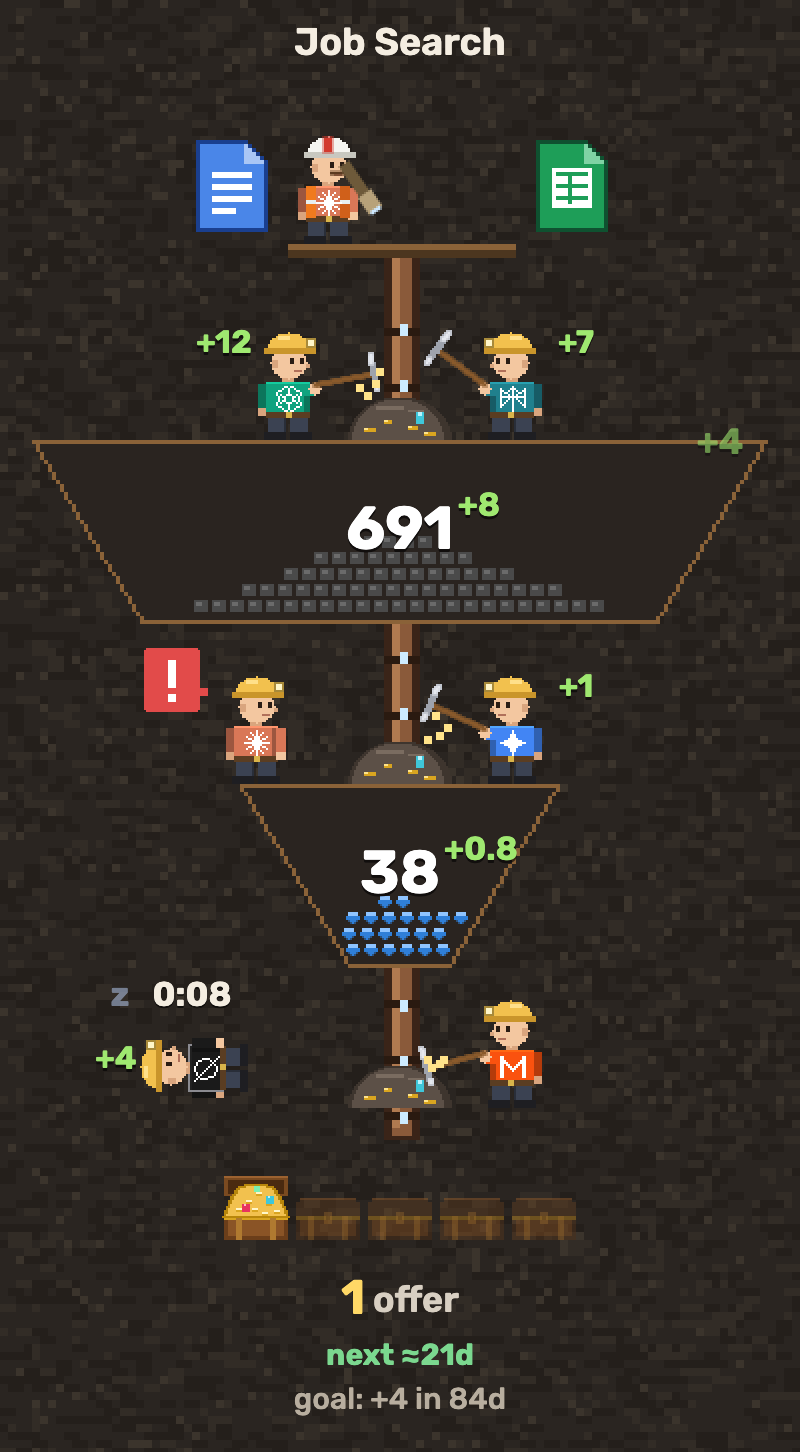
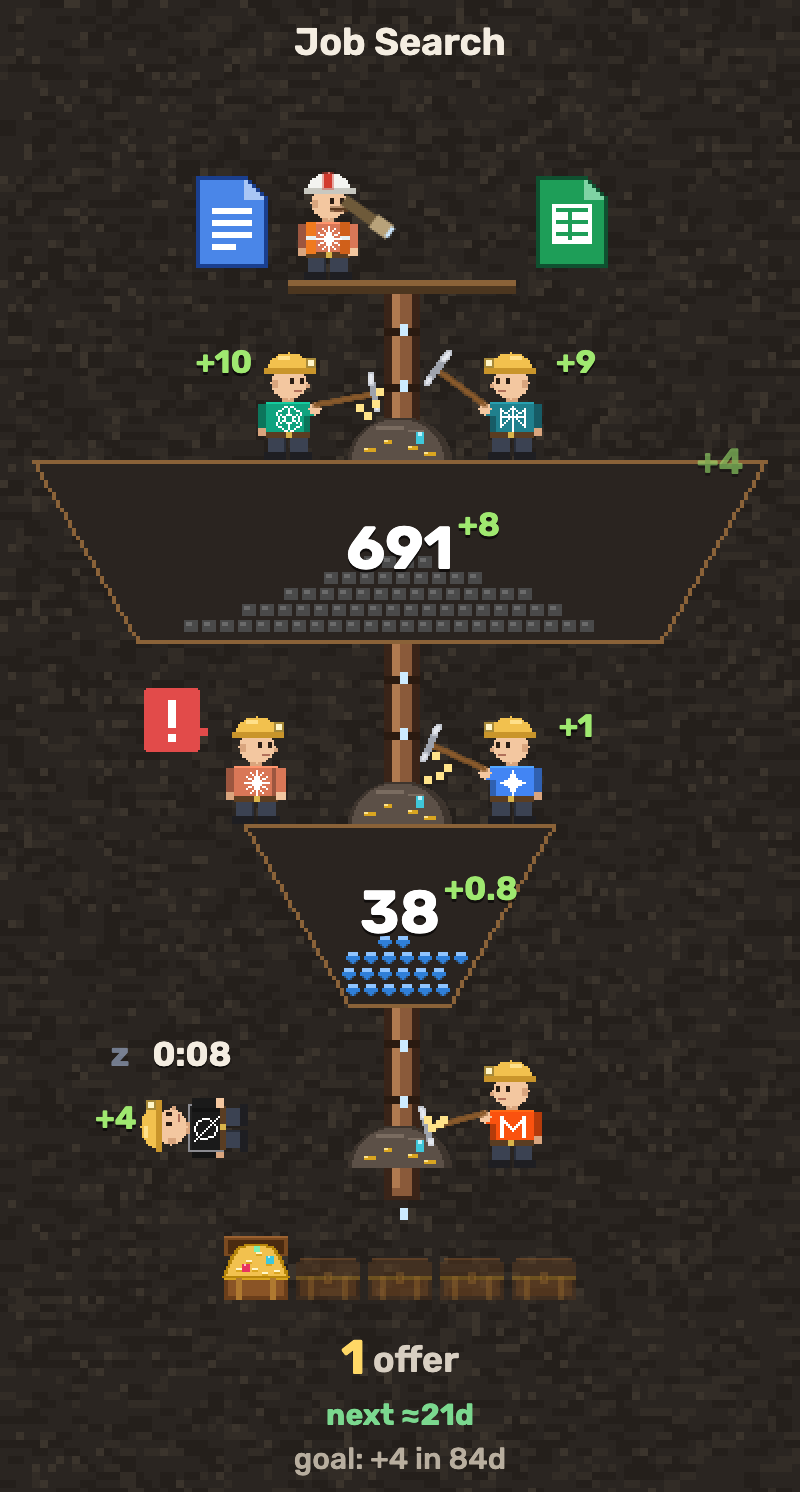
Every gap in a funnel is 45 high: from the supervisor's platform to the first tank and between tanks; landing labels and pictures follow

diff --git a/index.html b/index.html
@@ -23,7 +23,7 @@
   <link rel="preconnect" href="https://fonts.googleapis.com">
   <link rel="preconnect" href="https://fonts.gstatic.com" crossorigin>
   <link href="https://fonts.googleapis.com/css2?family=Tiny5&family=Rubik:wght@400;500;600;700&family=Noto+Sans+SC:wght@400;500;700&family=Noto+Sans+Thai:wght@400;500;700&family=Be+Vietnam+Pro:wght@400;500;600;700&family=Noto+Sans+JP:wght@400;500;700&family=Noto+Sans+KR:wght@400;500;700&display=swap" rel="stylesheet">
-  <link rel="stylesheet" href="site.css?v=ae864ee5">
+  <link rel="stylesheet" href="site.css?v=f143d60b">
 </head>
 <body>
   <div class="wrap">
@@ -48,14 +48,14 @@
            at its part's height (--y) with an arrow to it (--x), as fractions of the picture. -->
       <div class="guide">
         <img src="docs/img/funnel-plain.png" alt="One goal funnel of the demo" data-i18n-attr="alt:home.shotAlt" width="800" height="1368">
-        <div class="note up" style="--x:0.37;--y:0.096"><b data-i18n="guide.supervisor.h">Supervisor</b><span data-i18n="guide.supervisor">Your agent watching the whole funnel.</span></div>
-        <div class="note" style="--x:0.255;--y:0.14"><b data-i18n="guide.doc.h">Notes and list</b><span data-i18n="guide.doc">Notes on the left: everything the agents need to know about the funnel. The list on the right: where they keep track.</span></div>
-        <div class="note" style="--x:0.315;--y:0.259"><b data-i18n="guide.work.h">Agent at work</b><span data-i18n="guide.work">+N is what its current run added.</span></div>
-        <div class="note" style="--x:0.12;--y:0.366"><b data-i18n="guide.tank.h">Tank</b><span data-i18n="guide.tank">Items at this stage so far, and +N a day.</span></div>
-        <div class="note" style="--x:0.18;--y:0.476"><b data-i18n="guide.question.h">Question</b><span data-i18n="guide.question">An agent waits for your answer. Click it to reply.</span></div>
-        <div class="note" style="--x:0.095;--y:0.711"><b data-i18n="guide.asleep.h">Asleep</b><span data-i18n="guide.asleep">Resting until its next run; the timer counts down.</span></div>
-        <div class="note" style="--x:0.275;--y:0.824"><b data-i18n="guide.results.h">Results</b><span data-i18n="guide.results">One per result the goal needs; filled ones are done.</span></div>
-        <div class="note" style="--x:0.385;--y:0.934"><b data-i18n="guide.prediction.h">Prediction</b><span data-i18n="guide.prediction">When the next result is due at the current pace.</span></div>
+        <div class="note up" style="--x:0.37;--y:0.118"><b data-i18n="guide.supervisor.h">Supervisor</b><span data-i18n="guide.supervisor">Your agent watching the whole funnel.</span></div>
+        <div class="note" style="--x:0.255;--y:0.161"><b data-i18n="guide.doc.h">Notes and list</b><span data-i18n="guide.doc">Notes on the left: everything the agents need to know about the funnel. The list on the right: where they keep track.</span></div>
+        <div class="note" style="--x:0.315;--y:0.265"><b data-i18n="guide.work.h">Agent at work</b><span data-i18n="guide.work">+N is what its current run added.</span></div>
+        <div class="note" style="--x:0.117;--y:0.37"><b data-i18n="guide.tank.h">Tank</b><span data-i18n="guide.tank">Items at this stage so far, and +N a day.</span></div>
+        <div class="note" style="--x:0.18;--y:0.489"><b data-i18n="guide.question.h">Question</b><span data-i18n="guide.question">An agent waits for your answer. Click it to reply.</span></div>
+        <div class="note" style="--x:0.095;--y:0.732"><b data-i18n="guide.asleep.h">Asleep</b><span data-i18n="guide.asleep">Resting until its next run; the timer counts down.</span></div>
+        <div class="note" style="--x:0.275;--y:0.828"><b data-i18n="guide.results.h">Results</b><span data-i18n="guide.results">One per result the goal needs; filled ones are done.</span></div>
+        <div class="note" style="--x:0.385;--y:0.936"><b data-i18n="guide.prediction.h">Prediction</b><span data-i18n="guide.prediction">When the next result is due at the current pace.</span></div>
       </div>
     </section>
 
@@ -79,7 +79,7 @@
       <span><a href="https://github.com/oponfil/goalcraft/blob/main/docs/MCP.md" target="_blank" rel="noopener" data-i18n="footer.docs">Docs</a> · <a href="deck/" target="_blank" rel="noopener" data-i18n="footer.deck">Pitch deck</a> · <a href="privacy/" data-i18n="footer.privacy">Privacy</a> · <a href="terms/" data-i18n="footer.terms">Terms</a> · <a href="contact/" data-i18n="footer.contact">Contact</a> · <a class="gh" href="https://github.com/oponfil/goalcraft" target="_blank" rel="noopener" aria-label="GitHub" title="GitHub"><svg viewBox="0 0 16 16" width="16" height="16" aria-hidden="true"><path fill="currentColor" d="M8 0C3.58 0 0 3.58 0 8c0 3.54 2.29 6.53 5.47 7.59.4.07.55-.17.55-.38 0-.19-.01-.82-.01-1.49-2.01.37-2.53-.49-2.69-.94-.09-.23-.48-.94-.82-1.13-.28-.15-.68-.52-.01-.53.63-.01 1.08.58 1.23.82.72 1.21 1.87.87 2.33.66.07-.52.28-.87.51-1.07-1.78-.2-3.64-.89-3.64-3.95 0-.87.31-1.59.82-2.15-.08-.2-.36-1.02.08-2.12 0 0 .67-.21 2.2.82.64-.18 1.32-.27 2-.27.68 0 1.36.09 2 .27 1.53-1.04 2.2-.82 2.2-.82.44 1.1.16 1.92.08 2.12.51.56.82 1.27.82 2.15 0 3.07-1.87 3.75-3.65 3.95.29.25.54.73.54 1.48 0 1.07-.01 1.93-.01 2.2 0 .21.15.46.55.38A8.013 8.013 0 0016 8c0-4.42-3.58-8-8-8z"/></svg></a></span>
     </footer>
   </div>
-  <script type="module" src="src/nav.js?v=ae864ee5"></script>
-  <script type="module" src="src/guide-live.js?v=ae864ee5"></script>
+  <script type="module" src="src/nav.js?v=f143d60b"></script>
+  <script type="module" src="src/guide-live.js?v=f143d60b"></script>
 </body>
 </html>

diff --git a/pricing/index.html b/pricing/index.html
@@ -23,7 +23,7 @@
   <link rel="preconnect" href="https://fonts.googleapis.com">
   <link rel="preconnect" href="https://fonts.gstatic.com" crossorigin>
   <link href="https://fonts.googleapis.com/css2?family=Tiny5&family=Rubik:wght@400;500;600;700&family=Noto+Sans+SC:wght@400;500;700&family=Noto+Sans+Thai:wght@400;500;700&family=Be+Vietnam+Pro:wght@400;500;600;700&family=Noto+Sans+JP:wght@400;500;700&family=Noto+Sans+KR:wght@400;500;700&display=swap" rel="stylesheet">
-  <link rel="stylesheet" href="../site.css?v=ae864ee5">
+  <link rel="stylesheet" href="../site.css?v=f143d60b">
 </head>
 <body>
   <div class="wrap">
@@ -80,7 +80,7 @@
       <span><a href="https://github.com/oponfil/goalcraft/blob/main/docs/MCP.md" target="_blank" rel="noopener" data-i18n="footer.docs">Docs</a> · <a href="../deck/" target="_blank" rel="noopener" data-i18n="footer.deck">Pitch deck</a> · <a href="../privacy/" data-i18n="footer.privacy">Privacy</a> · <a href="../terms/" data-i18n="footer.terms">Terms</a> · <a href="../contact/" data-i18n="footer.contact">Contact</a> · <a class="gh" href="https://github.com/oponfil/goalcraft" target="_blank" rel="noopener" aria-label="GitHub" title="GitHub"><svg viewBox="0 0 16 16" width="16" height="16" aria-hidden="true"><path fill="currentColor" d="M8 0C3.58 0 0 3.58 0 8c0 3.54 2.29 6.53 5.47 7.59.4.07.55-.17.55-.38 0-.19-.01-.82-.01-1.49-2.01.37-2.53-.49-2.69-.94-.09-.23-.48-.94-.82-1.13-.28-.15-.68-.52-.01-.53.63-.01 1.08.58 1.23.82.72 1.21 1.87.87 2.33.66.07-.52.28-.87.51-1.07-1.78-.2-3.64-.89-3.64-3.95 0-.87.31-1.59.82-2.15-.08-.2-.36-1.02.08-2.12 0 0 .67-.21 2.2.82.64-.18 1.32-.27 2-.27.68 0 1.36.09 2 .27 1.53-1.04 2.2-.82 2.2-.82.44 1.1.16 1.92.08 2.12.51.56.82 1.27.82 2.15 0 3.07-1.87 3.75-3.65 3.95.29.25.54.73.54 1.48 0 1.07-.01 1.93-.01 2.2 0 .21.15.46.55.38A8.013 8.013 0 0016 8c0-4.42-3.58-8-8-8z"/></svg></a></span>
     </footer>
   </div>
-  <script type="module" src="../src/nav.js?v=ae864ee5"></script>
-  <script type="module" src="../src/pricing.js?v=ae864ee5"></script>
+  <script type="module" src="../src/nav.js?v=f143d60b"></script>
+  <script type="module" src="../src/pricing.js?v=f143d60b"></script>
 </body>
 </html>

diff --git a/contact/index.html b/contact/index.html
@@ -23,7 +23,7 @@
   <link rel="preconnect" href="https://fonts.googleapis.com">
   <link rel="preconnect" href="https://fonts.gstatic.com" crossorigin>
   <link href="https://fonts.googleapis.com/css2?family=Tiny5&family=Rubik:wght@400;500;600;700&family=Noto+Sans+SC:wght@400;500;700&family=Noto+Sans+Thai:wght@400;500;700&family=Be+Vietnam+Pro:wght@400;500;600;700&family=Noto+Sans+JP:wght@400;500;700&family=Noto+Sans+KR:wght@400;500;700&display=swap" rel="stylesheet">
-  <link rel="stylesheet" href="../site.css?v=ae864ee5">
+  <link rel="stylesheet" href="../site.css?v=f143d60b">
 </head>
 <body>
   <div class="wrap">
@@ -52,6 +52,6 @@
       <span><a href="https://github.com/oponfil/goalcraft/blob/main/docs/MCP.md" target="_blank" rel="noopener" data-i18n="footer.docs">Docs</a> · <a href="../deck/" target="_blank" rel="noopener" data-i18n="footer.deck">Pitch deck</a> · <a href="../privacy/" data-i18n="footer.privacy">Privacy</a> · <a href="../terms/" data-i18n="footer.terms">Terms</a> · <a href="../contact/" data-i18n="footer.contact">Contact</a> · <a class="gh" href="https://github.com/oponfil/goalcraft" target="_blank" rel="noopener" aria-label="GitHub" title="GitHub"><svg viewBox="0 0 16 16" width="16" height="16" aria-hidden="true"><path fill="currentColor" d="M8 0C3.58 0 0 3.58 0 8c0 3.54 2.29 6.53 5.47 7.59.4.07.55-.17.55-.38 0-.19-.01-.82-.01-1.49-2.01.37-2.53-.49-2.69-.94-.09-.23-.48-.94-.82-1.13-.28-.15-.68-.52-.01-.53.63-.01 1.08.58 1.23.82.72 1.21 1.87.87 2.33.66.07-.52.28-.87.51-1.07-1.78-.2-3.64-.89-3.64-3.95 0-.87.31-1.59.82-2.15-.08-.2-.36-1.02.08-2.12 0 0 .67-.21 2.2.82.64-.18 1.32-.27 2-.27.68 0 1.36.09 2 .27 1.53-1.04 2.2-.82 2.2-.82.44 1.1.16 1.92.08 2.12.51.56.82 1.27.82 2.15 0 3.07-1.87 3.75-3.65 3.95.29.25.54.73.54 1.48 0 1.07-.01 1.93-.01 2.2 0 .21.15.46.55.38A8.013 8.013 0 0016 8c0-4.42-3.58-8-8-8z"/></svg></a></span>
     </footer>
   </div>
-  <script type="module" src="../src/nav.js?v=ae864ee5"></script>
+  <script type="module" src="../src/nav.js?v=f143d60b"></script>
 </body>
 </html>

diff --git a/privacy/index.html b/privacy/index.html
@@ -23,7 +23,7 @@
   <link rel="preconnect" href="https://fonts.googleapis.com">
   <link rel="preconnect" href="https://fonts.gstatic.com" crossorigin>
   <link href="https://fonts.googleapis.com/css2?family=Tiny5&family=Rubik:wght@400;500;600;700&family=Noto+Sans+SC:wght@400;500;700&family=Noto+Sans+Thai:wght@400;500;700&family=Be+Vietnam+Pro:wght@400;500;600;700&family=Noto+Sans+JP:wght@400;500;700&family=Noto+Sans+KR:wght@400;500;700&display=swap" rel="stylesheet">
-  <link rel="stylesheet" href="../site.css?v=ae864ee5">
+  <link rel="stylesheet" href="../site.css?v=f143d60b">
 </head>
 <body>
   <div class="wrap">
@@ -61,6 +61,6 @@
       <span><a href="https://github.com/oponfil/goalcraft/blob/main/docs/MCP.md" target="_blank" rel="noopener" data-i18n="footer.docs">Docs</a> · <a href="../deck/" target="_blank" rel="noopener" data-i18n="footer.deck">Pitch deck</a> · <a href="../privacy/" data-i18n="footer.privacy">Privacy</a> · <a href="../terms/" data-i18n="footer.terms">Terms</a> · <a href="../contact/" data-i18n="footer.contact">Contact</a> · <a class="gh" href="https://github.com/oponfil/goalcraft" target="_blank" rel="noopener" aria-label="GitHub" title="GitHub"><svg viewBox="0 0 16 16" width="16" height="16" aria-hidden="true"><path fill="currentColor" d="M8 0C3.58 0 0 3.58 0 8c0 3.54 2.29 6.53 5.47 7.59.4.07.55-.17.55-.38 0-.19-.01-.82-.01-1.49-2.01.37-2.53-.49-2.69-.94-.09-.23-.48-.94-.82-1.13-.28-.15-.68-.52-.01-.53.63-.01 1.08.58 1.23.82.72 1.21 1.87.87 2.33.66.07-.52.28-.87.51-1.07-1.78-.2-3.64-.89-3.64-3.95 0-.87.31-1.59.82-2.15-.08-.2-.36-1.02.08-2.12 0 0 .67-.21 2.2.82.64-.18 1.32-.27 2-.27.68 0 1.36.09 2 .27 1.53-1.04 2.2-.82 2.2-.82.44 1.1.16 1.92.08 2.12.51.56.82 1.27.82 2.15 0 3.07-1.87 3.75-3.65 3.95.29.25.54.73.54 1.48 0 1.07-.01 1.93-.01 2.2 0 .21.15.46.55.38A8.013 8.013 0 0016 8c0-4.42-3.58-8-8-8z"/></svg></a></span>
     </footer>
   </div>
-  <script type="module" src="../src/nav.js?v=ae864ee5"></script>
+  <script type="module" src="../src/nav.js?v=f143d60b"></script>
 </body>
 </html>

diff --git a/terms/index.html b/terms/index.html
@@ -23,7 +23,7 @@
   <link rel="preconnect" href="https://fonts.googleapis.com">
   <link rel="preconnect" href="https://fonts.gstatic.com" crossorigin>
   <link href="https://fonts.googleapis.com/css2?family=Tiny5&family=Rubik:wght@400;500;600;700&family=Noto+Sans+SC:wght@400;500;700&family=Noto+Sans+Thai:wght@400;500;700&family=Be+Vietnam+Pro:wght@400;500;600;700&family=Noto+Sans+JP:wght@400;500;700&family=Noto+Sans+KR:wght@400;500;700&display=swap" rel="stylesheet">
-  <link rel="stylesheet" href="../site.css?v=ae864ee5">
+  <link rel="stylesheet" href="../site.css?v=f143d60b">
 </head>
 <body>
   <div class="wrap">
@@ -71,6 +71,6 @@
       <span><a href="https://github.com/oponfil/goalcraft/blob/main/docs/MCP.md" target="_blank" rel="noopener" data-i18n="footer.docs">Docs</a> · <a href="../deck/" target="_blank" rel="noopener" data-i18n="footer.deck">Pitch deck</a> · <a href="../privacy/" data-i18n="footer.privacy">Privacy</a> · <a href="../terms/" data-i18n="footer.terms">Terms</a> · <a href="../contact/" data-i18n="footer.contact">Contact</a> · <a class="gh" href="https://github.com/oponfil/goalcraft" target="_blank" rel="noopener" aria-label="GitHub" title="GitHub"><svg viewBox="0 0 16 16" width="16" height="16" aria-hidden="true"><path fill="currentColor" d="M8 0C3.58 0 0 3.58 0 8c0 3.54 2.29 6.53 5.47 7.59.4.07.55-.17.55-.38 0-.19-.01-.82-.01-1.49-2.01.37-2.53-.49-2.69-.94-.09-.23-.48-.94-.82-1.13-.28-.15-.68-.52-.01-.53.63-.01 1.08.58 1.23.82.72 1.21 1.87.87 2.33.66.07-.52.28-.87.51-1.07-1.78-.2-3.64-.89-3.64-3.95 0-.87.31-1.59.82-2.15-.08-.2-.36-1.02.08-2.12 0 0 .67-.21 2.2.82.64-.18 1.32-.27 2-.27.68 0 1.36.09 2 .27 1.53-1.04 2.2-.82 2.2-.82.44 1.1.16 1.92.08 2.12.51.56.82 1.27.82 2.15 0 3.07-1.87 3.75-3.65 3.95.29.25.54.73.54 1.48 0 1.07-.01 1.93-.01 2.2 0 .21.15.46.55.38A8.013 8.013 0 0016 8c0-4.42-3.58-8-8-8z"/></svg></a></span>
     </footer>
   </div>
-  <script type="module" src="../src/nav.js?v=ae864ee5"></script>
+  <script type="module" src="../src/nav.js?v=f143d60b"></script>
 </body>
 </html>

diff --git a/app/index.html b/app/index.html
@@ -12,7 +12,7 @@
   <link rel="preconnect" href="https://fonts.googleapis.com">
   <link rel="preconnect" href="https://fonts.gstatic.com" crossorigin>
   <link href="https://fonts.googleapis.com/css2?family=Tiny5&family=Rubik:wght@400;500;600;700&family=Noto+Sans+SC:wght@400;500;700&family=Noto+Sans+Thai:wght@400;500;700&family=Be+Vietnam+Pro:wght@400;500;600;700&family=Noto+Sans+JP:wght@400;500;700&family=Noto+Sans+KR:wght@400;500;700&display=swap" rel="stylesheet">
-  <link rel="stylesheet" href="../dashboard.css?v=ae864ee5">
+  <link rel="stylesheet" href="../dashboard.css?v=f143d60b">
 </head>
 <body>
   <nav class="sitebar">
@@ -40,12 +40,12 @@
   <div id="pop" hidden></div>
 
   <script type="module">
-    import { supabase } from '../src/auth.js?v=ae864ee5';
-    import { setUpConnect } from '../src/connect.js?v=ae864ee5';
-    import { loadFunnels, answer, sendMessage, watch, runs, closeReplies } from '../src/live.js?v=ae864ee5';
-    import { mountDashboard } from '../src/dashboard.js?v=ae864ee5';
-    import { account } from '../src/billing.js?v=ae864ee5';
-    import { t, fmtDuration, lang } from '../src/i18n.js?v=ae864ee5';
+    import { supabase } from '../src/auth.js?v=f143d60b';
+    import { setUpConnect } from '../src/connect.js?v=f143d60b';
+    import { loadFunnels, answer, sendMessage, watch, runs, closeReplies } from '../src/live.js?v=f143d60b';
+    import { mountDashboard } from '../src/dashboard.js?v=f143d60b';
+    import { account } from '../src/billing.js?v=f143d60b';
+    import { t, fmtDuration, lang } from '../src/i18n.js?v=f143d60b';
 
     // Coming back from an email link, supabase-js reads the session from the URL.
     const { data: { session } } = await supabase.auth.getSession();
@@ -125,6 +125,6 @@
       document.addEventListener('focusout', () => { if (pending) refresh(); });
     }
   </script>
-  <script type="module" src="../src/nav.js?v=ae864ee5"></script>
+  <script type="module" src="../src/nav.js?v=f143d60b"></script>
 </body>
 </html>

diff --git a/src/scene.js b/src/scene.js
@@ -1,16 +1,18 @@
-import { agentInfo, plural } from './data.js?v=fb27b397';
-import { drawStanding, drawLying, drawBoss, drawBossLying, drawSpyglass, drawPickaxe, drawShears, drawBeaker, drawBow, drawArrow, drawLaptop, drawStamp, drawHammer, drawSword, drawRollingPin, drawBubble, BUBBLE_STEP, line, P, MINER_H } from './sprites.js?v=fb27b397';
-import { themeOf } from './themes.js?v=fb27b397';
-import { t as tr, lang, fmtDuration, flowUnit } from './i18n.js?v=fb27b397';
+import { agentInfo, plural } from './data.js?v=f143d60b';
+import { drawStanding, drawLying, drawBoss, drawBossLying, drawSpyglass, drawPickaxe, drawShears, drawBeaker, drawBow, drawArrow, drawLaptop, drawStamp, drawHammer, drawSword, drawRollingPin, drawBubble, BUBBLE_STEP, line, P, MINER_H } from './sprites.js?v=f143d60b';
+import { themeOf } from './themes.js?v=f143d60b';
+import { t as tr, lang, fmtDuration, flowUnit } from './i18n.js?v=f143d60b';
 
 // Logical (pixel-art) layout of one funnel column. Funnels have 2-5 tanks with a mining zone above
 // each tank and one more below the last (the output zone, where results come out into flasks).
 // The scene is tall enough for 5 tanks; shorter funnels end higher up. Titles live in the page header.
 export const CW = 200;
-const ZW = 164, TOP = 48, ZH = 40, LH = 46, MAX_STAGES = 5;
+// ZH: the height of a work zone between two tanks, the same as from the supervisor's platform down to
+// the first tank.
+const ZW = 164, TOP = 48, ZH = 45, LH = 46, MAX_STAGES = 5;
 // The supervisor's platform: a small deck on top of the pipe; the supervisor walks from one end to
 // the other and looks down from each.
-const DECK_HALF = 28, DECK_Y = TOP - 9;
+const DECK_HALF = 28, DECK_Y = TOP;
 // The funnel's notes (left) and its list (right) hang in the air beside the platform's ends, DOC_W
 // wide each, their bottoms a little above its floor.
 const DOC_W = 18, GUIDE_X = -DECK_HALF - 5 - DOC_W, SHEET_X = DECK_HALF + 6, DOC_Y = DECK_Y - 25;

diff --git a/login/index.html b/login/index.html
@@ -12,7 +12,7 @@
   <link rel="preconnect" href="https://fonts.googleapis.com">
   <link rel="preconnect" href="https://fonts.gstatic.com" crossorigin>
   <link href="https://fonts.googleapis.com/css2?family=Tiny5&family=Rubik:wght@400;500;600;700&family=Noto+Sans+SC:wght@400;500;700&family=Noto+Sans+Thai:wght@400;500;700&family=Be+Vietnam+Pro:wght@400;500;600;700&family=Noto+Sans+JP:wght@400;500;700&family=Noto+Sans+KR:wght@400;500;700&display=swap" rel="stylesheet">
-  <link rel="stylesheet" href="../site.css?v=ae864ee5">
+  <link rel="stylesheet" href="../site.css?v=f143d60b">
 </head>
 <body>
   <div class="wrap">
@@ -51,9 +51,9 @@
   </div>
 
   <script type="module">
-    import { supabase, afterSignIn } from '../src/auth.js?v=ae864ee5';
-    import { GOOGLE_CLIENT_ID } from '../src/config.js?v=ae864ee5';
-    import { t, lang } from '../src/i18n.js?v=ae864ee5';
+    import { supabase, afterSignIn } from '../src/auth.js?v=f143d60b';
+    import { GOOGLE_CLIENT_ID } from '../src/config.js?v=f143d60b';
+    import { t, lang } from '../src/i18n.js?v=f143d60b';
 
     const msg = document.getElementById('msg');
     const say = (text, kind = '') => { msg.textContent = text; msg.className = 'msg ' + kind; };
@@ -165,6 +165,6 @@
       else say(t('login.sendFailed'), 'error');
     });
   </script>
-  <script type="module" src="../src/nav.js?v=ae864ee5"></script>
+  <script type="module" src="../src/nav.js?v=f143d60b"></script>
 </body>
 </html>

diff --git a/tools/render-docs.js b/tools/render-docs.js
@@ -1,12 +1,12 @@
 // Renders the README pictures (agents sheet, theme samples, the board) and the link preview card from the same drawing code as
 // the dashboard and saves them through serve.py: open http://localhost:5173/tools/render-docs.html
 // (always in English: the page adds ?lang=en to itself).
-import { AGENTS, FUNNELS } from '../src/data.js?v=ae864ee5';
-import { Scene, CW, drawWork, TOOL_PERIOD } from '../src/scene.js?v=ae864ee5';
-import { guideScene, guideHeight, drawGuide, TH } from '../src/guide.js?v=ae864ee5';
+import { AGENTS, FUNNELS } from '../src/data.js?v=f143d60b';
+import { Scene, CW, drawWork, TOOL_PERIOD } from '../src/scene.js?v=f143d60b';
+import { guideScene, guideHeight, drawGuide, TH } from '../src/guide.js?v=f143d60b';
 import { GIFEncoder, quantize, applyPalette } from 'https://cdn.jsdelivr.net/npm/gifenc@1.0.3/dist/gifenc.esm.js';
-import { THEMES } from '../src/themes.js?v=ae864ee5';
-import { drawStanding, drawPickaxe, drawShears, drawBeaker, drawBow, drawArrow, drawLaptop, drawStamp, drawHammer, drawSword, drawRollingPin } from '../src/sprites.js?v=ae864ee5';
+import { THEMES } from '../src/themes.js?v=f143d60b';
+import { drawStanding, drawPickaxe, drawShears, drawBeaker, drawBow, drawArrow, drawLaptop, drawStamp, drawHammer, drawSword, drawRollingPin } from '../src/sprites.js?v=f143d60b';
 
 const FONT = 'Rubik, system-ui, sans-serif';
 

diff --git a/oauth/consent/index.html b/oauth/consent/index.html
@@ -13,7 +13,7 @@
   <link rel="preconnect" href="https://fonts.googleapis.com">
   <link rel="preconnect" href="https://fonts.gstatic.com" crossorigin>
   <link href="https://fonts.googleapis.com/css2?family=Tiny5&family=Rubik:wght@400;500;600;700&family=Noto+Sans+SC:wght@400;500;700&family=Noto+Sans+Thai:wght@400;500;700&family=Be+Vietnam+Pro:wght@400;500;600;700&family=Noto+Sans+JP:wght@400;500;700&family=Noto+Sans+KR:wght@400;500;700&display=swap" rel="stylesheet">
-  <link rel="stylesheet" href="../../site.css?v=ae864ee5">
+  <link rel="stylesheet" href="../../site.css?v=f143d60b">
 </head>
 <body>
   <div class="wrap">
@@ -29,8 +29,8 @@
   <script type="module">
     // OAuth consent: Supabase Auth sends the person here with ?authorization_id= when an agent
     // (Claude, ChatGPT, Cursor…) asks to connect to their Goalcraft.
-    import { supabase, siteUrl } from '../../src/auth.js?v=ae864ee5';
-    import { t } from '../../src/i18n.js?v=ae864ee5';
+    import { supabase, siteUrl } from '../../src/auth.js?v=f143d60b';
+    import { t } from '../../src/i18n.js?v=f143d60b';
 
     const card = document.getElementById('card');
     const esc = s => String(s ?? '').replace(/[&<>"']/g, c => `&#${c.charCodeAt(0)};`);

diff --git a/src/connect.js b/src/connect.js
@@ -1,6 +1,6 @@
 // The prompt that connects Goalcraft to any agent, with a copy icon on its block.
-import { MCP_URL } from './config.js?v=ae864ee5';
-import { t } from './i18n.js?v=ae864ee5';
+import { MCP_URL } from './config.js?v=f143d60b';
+import { t } from './i18n.js?v=f143d60b';
 
 export const CONNECT_PROMPT = t('connect.prompt', MCP_URL);
 // The Connect page's prompt: the agent connects Goalcraft and becomes the supervisor of one goal's funnel.
@@ -36,7 +36,7 @@ const WAKE_INSTALL = key => 'mkdir -p ~/.goalcraft && curl -fsSL https://goalcra
 export async function setUpWake(root = document) {
   const box = root.querySelector('[data-wake]');
   if (!box) return;
-  const { supabase } = await import('./auth.js?v=ae864ee5');
+  const { supabase } = await import('./auth.js?v=f143d60b');
   const { data: { session } } = await supabase.auth.getSession();
   if (!session) { box.innerHTML = `<p>${t('connect.wake.signin')}</p>`; return; }
   box.innerHTML = `<button class="btn" type="button">${t('connect.wake.create')}</button><p class="wake-msg"></p>`;

diff --git a/connect/index.html b/connect/index.html
@@ -23,7 +23,7 @@
   <link rel="preconnect" href="https://fonts.googleapis.com">
   <link rel="preconnect" href="https://fonts.gstatic.com" crossorigin>
   <link href="https://fonts.googleapis.com/css2?family=Tiny5&family=Rubik:wght@400;500;600;700&family=Noto+Sans+SC:wght@400;500;700&family=Noto+Sans+Thai:wght@400;500;700&family=Be+Vietnam+Pro:wght@400;500;600;700&family=Noto+Sans+JP:wght@400;500;700&family=Noto+Sans+KR:wght@400;500;700&display=swap" rel="stylesheet">
-  <link rel="stylesheet" href="../dashboard.css?v=ae864ee5">
+  <link rel="stylesheet" href="../dashboard.css?v=f143d60b">
 </head>
 <body>
   <nav class="sitebar">
@@ -53,10 +53,10 @@
     </footer>
   </main>
   <script type="module">
-    import { setUpConnect, setUpWake } from '../src/connect.js?v=ae864ee5';
+    import { setUpConnect, setUpWake } from '../src/connect.js?v=f143d60b';
     setUpConnect();
     setUpWake();
   </script>
-  <script type="module" src="../src/nav.js?v=ae864ee5"></script>
+  <script type="module" src="../src/nav.js?v=f143d60b"></script>
 </body>
 </html>
